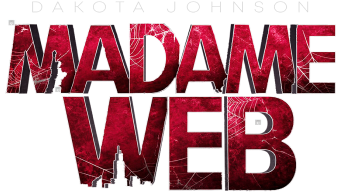
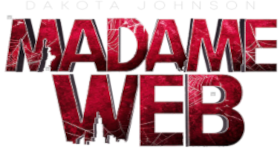
ajustando tamanho das imagens,e posicionando corretamente os elementos na tela

diff --git a/src/components/Main.tsx b/src/components/Main.tsx
@@ -10,6 +10,7 @@ export const Main: React.FC = () => {
             description: "Cassandra Webb, uma paramédica em Manhattan, tem habilidades de clarividência.<br/> Forçada a confrontar revelações sobre seu passado,<br/> ela forja uma relação com três jovens destinadas a futuros poderosos.",
             backImg: "Madame-web-fundo.png",
             banner: "/madame-banner.png",
+            rating: "rating-madame.png",
             isMain: false
         },
         {
@@ -18,6 +19,7 @@ export const Main: React.FC = () => {
             description: "O físico J. Robert Oppenheimer trabalha com uma equipe de cientistas durante o Projeto Manhattan,<br/>levando ao desenvolvimento da bomba atômica",
             backImg: "Oppenheimer-fundo.png",
             banner: "/oppenheimer-banner.png",
+            rating: "rating-oppenheimer.png",
             isMain: true
         },
         {
@@ -26,6 +28,7 @@ export const Main: React.FC = () => {
             description: "Uma poderosa feiticeira que muda de forma coloca os olhos no Cajado da Sabedoria.<br/> Po de repente percebe que precisa de ajuda e logo descobre que heróis podem ser<br/> encontrados nos lugares mais inesperados.",
             backImg: "Kung-Fu-fundo.png",
             banner: "/kung-fu-banner.png",
+            rating: "rating-kung-fu.png",
             isMain: false
         }
     ])
@@ -38,28 +41,28 @@ export const Main: React.FC = () => {
     }
     return (
         <div>
-            <main className='flex justify-around mt-8'>
+            <main className='flex justify-around'>
                 <section className='flex flex-col justify-center gap-2'>
-                    <img src={images.find(image => image.isMain)?.src} alt={images.find(image => image.isMain)?.title} className='max-w-2xl pb-16' />
+                    <img src={images.find(image => image.isMain)?.src} alt={images.find(image => image.isMain)?.title} className='max-w-lg pb-16' />
                     <h1 className='text-3xl'>{images.find(image => image.isMain)?.title}</h1>
                     <h6 className='text-zinc-500 my-2'>IMDb Rating</h6>
-                    <img src="/Rating.png" alt="rating" width={250} />
+                    <img src={images.find(image => image.isMain)?.rating} alt="rating" width={250} />
                     <ul className='flex gap-2 p-2'>
                         <Li>História</Li>
                         <Li>Drama</Li>
-                        <Li>Biografia</Li>
+                        <Li>Ação</Li>
                     </ul>
                     <p className='text-zinc-600 text-lg' dangerouslySetInnerHTML={{ __html: images.find(image => image.isMain)?.description }} />
                     <button className='flex w-44 h-12 items-center justify-center gap-2 bg-zinc-50 text-zinc-900 text-xl font-bold my-4 rounded-md shadow-md shadow-zinc-50/70'><CirclePlay /> VER TRAILER</button>
                 </section>
-                <section className='flex items-end justify-center'>
-                    {images.map((image, index) => (
-                        <img key={index} src={image.banner} className={`${image.isMain ? 'w-1/4 opacity-100' : 'w-1/5 opacity-60'}`} onClick={() => { handleMainImg(index) }} />
-
-                    ))}
-                </section>
                 <section>
-                    <img src={images.find(image => image.isMain)?.backImg} alt={images.find(image => image.isMain)?.title} className='opacity-80 z-0 absolute top-14 right-12' />
+                    <img src={images.find(image => image.isMain)?.backImg} alt={images.find(image => image.isMain)?.title} className='opacity-80 z-0' />
+                    <section className='flex items-end justify-center'>
+                        {images.map((image, index) => (
+                            <img key={index} src={image.banner} className={`${image.isMain ? 'w-1/4 opacity-100' : 'w-1/5 opacity-60'}`} onClick={() => { handleMainImg(index) }} />
+
+                        ))}
+                    </section>
                 </section>
             </main>
         </div>

diff --git a/src/components/Section.tsx b/src/components/Section.tsx
@@ -3,7 +3,7 @@ import { CalendarDays } from 'lucide-react'
 
 export const Section = () => {
     return (      
-            <section className='bg-zinc-800 flex items-center w-full h-44 mt-28  justify-around '>
+            <section className='bg-zinc-800 flex items-center w-full h-44 mt-10  justify-around '>
                 <div className='flex flex-col gap-1'>
                     <Label>Escolha o Filme</Label>
                     <Select>

diff --git a/src/types.ts b/src/types.ts
@@ -10,4 +10,5 @@ export type Image = {
     backImg: string
     banner: string
     isMain: boolean
+    rating: string
 }
